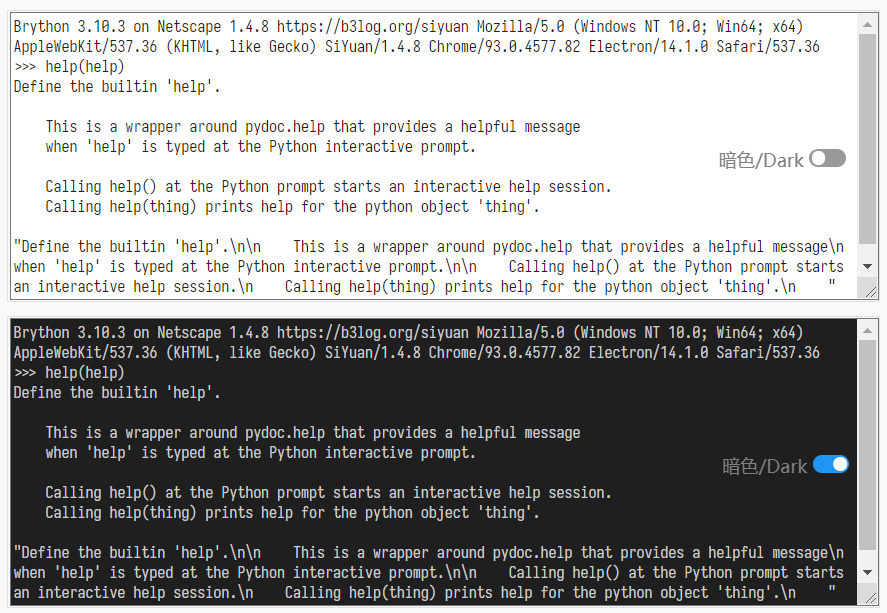
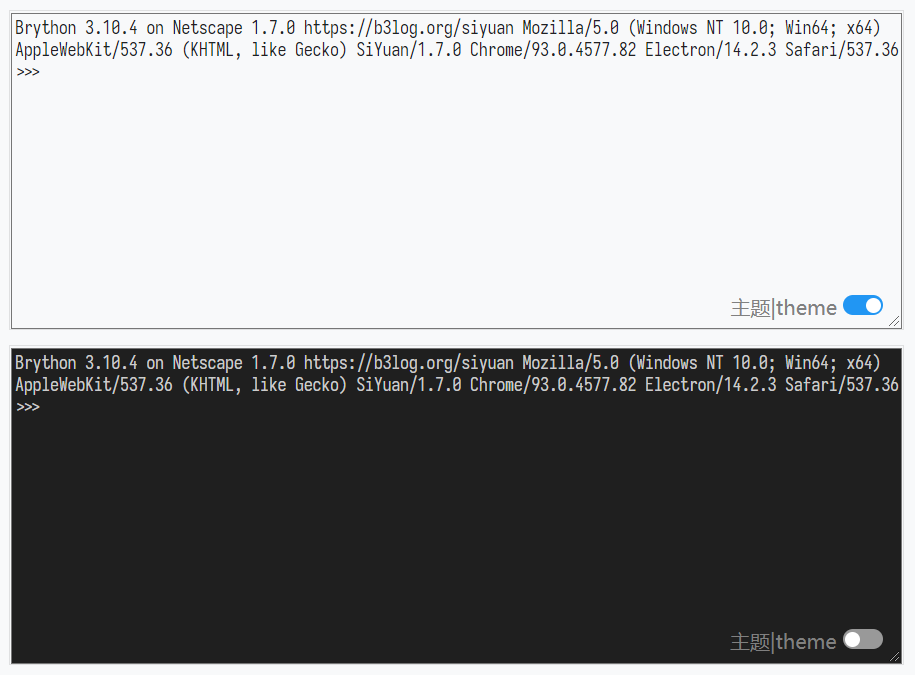
feat: 配色跟随主题切换 | The color matching follows the theme switch.

Changed region(s): [[0.0, 0.0, 1.0, 0.9918], [0.0609, 0.186, 0.6697, 0.248]]

diff --git a/index.html b/index.html
@@ -14,10 +14,10 @@
 <body onload="brython()">
     <div id="tool-box">
         <div>
-            <label style="color: gray;">暗色/Dark</label>
+            <label style="color: gray;">主题|theme</label>
 
-            <label id="switch-dark" class="switch">
-                <input id="switch-dark-input" type="checkbox" checked>
+            <label id="switch-theme" class="switch">
+                <input id="switch-theme-input" type="checkbox" checked>
                 <div class="slider round"></div>
             </label>
         </div>
@@ -26,7 +26,17 @@
     <!-- <script type="text/javascript" src="/theme/metro.min.js"></script> -->
     <!-- <script src="https://cdn.metroui.org.ua/v4/js/metro.min.js"></script> -->
 </body>
+<script type="text/javascript">
+  /* 引入全局主题配置文件 */
+  let themeDefaultStyle = window.parent.document.getElementById('themeDefaultStyle');
+  let themeStyle = window.parent.document.getElementById('themeStyle');
+  let head = document.getElementsByTagName('HEAD').item(0);
 
+  head.appendChild(themeDefaultStyle.cloneNode(true));
+  if (themeStyle != null) {
+    head.appendChild(themeStyle.cloneNode(true));
+  }
+</script>
 <script type="text/python" src="./assets/main.py"></script>
 
 </html>

diff --git a/assets/main.css b/assets/main.css
@@ -3,8 +3,8 @@ body {
 }
 
 .codearea {
-    background-color: #1F1F1F;
-    color: #CCC;
+    color: var(--b3-theme-on-background);
+    background-color: var(--b3-theme-background);
     font-family: 'Sarasa Mono SC', 'Oxygen Mono', Consolas, 'Liberation Mono', 'DejaVu Sans Mono', monospace;
     font-size: 14px;
     /* overflow: auto; */

diff --git a/assets/main.py b/assets/main.py
@@ -1,5 +1,5 @@
 from interpreter import Interpreter
-from browser import bind, document, alert
+from browser import bind, document
 
 # 在 id 为 "code" 文本区中启动一个交互式控制台
 # Start an interactive interpreter in textarea with id "code"
@@ -8,10 +8,11 @@ Interpreter("code")
 COLOR_DARK = "#CCC"
 BACKGROUND_COLOR_DARK = "#1F1F1F"
 
-COLOR_LIGHT = "#1F1F1F"
-BACKGROUND_COLOR_LIGHT = "#FFF"
+COLOR_DEFAULT = "var(--b3-theme-on-background)"
+BACKGROUND_COLOR_DEFAULT = "var(--b3-theme-background)"
 
-@bind("#switch-dark", "click")
+
+@bind("#switch-theme", "click")
 def colorChange(event):
     def setColor(color, backgroundColor, elements):
         """ 设置控制台的颜色(Set the color of the console) """
@@ -19,21 +20,23 @@ def colorChange(event):
             element.style.color = color
             element.style.backgroundColor = backgroundColor
 
-    if not document["switch-dark-input"].checked: # 变更为浅色主题(change to light theme)
+    if document["switch-theme-input"].checked:  # 跟随主题(Follow the theme)
         setColor(
-            color=COLOR_LIGHT,
-            backgroundColor=BACKGROUND_COLOR_LIGHT,
+            color=COLOR_DEFAULT,
+            backgroundColor=BACKGROUND_COLOR_DEFAULT,
             elements=document.select('.codearea'),
         )
-    else: # 变更为深色主题(change to dark theme)
+    else:  # 变更为深色主题(change to dark theme)
         setColor(
             color=COLOR_DARK,
             backgroundColor=BACKGROUND_COLOR_DARK,
             elements=document.select('.codearea'),
         )
 
+
 class ElementMove:
     """ 鼠标移动元素(Mouse moves element) """
+
     def __init__(self, moving):
         """Make "moving" element movable with the mouse"""
         self.moving = moving
@@ -65,5 +68,6 @@ class ElementMove:
         """When user releases the mouse button, stop moving the element"""
         self.is_moving = False
         document.unbind("mousemove")
+
 
 ElementMove(document["tool-box"])

diff --git a/README.md b/README.md
@@ -1,4 +1,4 @@
-# Brython 控制台挂件 / widget-brython-console
+# Brython 控制台挂件 | widget-brython-console
 
 <center>
 
@@ -11,49 +11,49 @@
 
 </center>
 
-一个简单可离线运行的的 Brython 控制台挂件<br>
+一个简单可离线运行的的 Brython 控制台挂件  
 A sample, offline-running widget of Brython Console.
 
-现已上架[思源笔记社区集市](https://github.com/siyuan-note/bazaar), 如果您需要订阅[思源笔记](https://github.com/siyuan-note/siyuan)增值服务，欢迎使用我的推荐码: **h0sc9rc**<br>
+现已上架[思源笔记社区集市](https://github.com/siyuan-note/bazaar), 如果您需要订阅[思源笔记](https://github.com/siyuan-note/siyuan)增值服务，欢迎使用我的推荐码: **h0sc9rc**  
 It is now on the shelves of the [Siyuan Notes Community Bazaar](https://github.com/siyuan-note/bazaar). If you need to subscribe to the value-added services of [siyuan note](https://github.com/siyuan-note/siyuan/blob/master/README_en_US.md), please use my referral code: **h0sc9rc**
 
 ---
 
-# 预览 / PREVIEW
+# 预览 | PREVIEW
 
 ![preview.png](./preview.png)
 
-# 功能 / FUNCTION
+# 功能 | FUNCTION
 
-- 离线使用 Brython 库交互式运行 Python 脚本<br>
+- 离线使用 Brython 库交互式运行 Python 脚本  
   Run Python scripts offline using the Brython library interactively.
-  - Brython 库所实现的模块详见 [Brython documentation](https://brython.info/static_doc/en/intro.html)<br>
+  - Brython 库所实现的模块详见 [Brython documentation](https://brython.info/static_doc/en/intro.html)  
     Details of the modules implemented by the library can be found at [Brython documentation](https://brython.info/static_doc/en/intro.html)
-- 可拖动的工具栏<br>
+- 可拖动的工具栏  
   A removable toolbar.
-  - 一个`亮色`与`暗色`主题切换开关<br>
-    A switch for switching between `Light` and `Dark` themes.
+  - 一个跟随全局主题与`暗色`主题切换开关  
+    A switch for switching between follow the global theme and `Dark` theme.
 
-# 开始 / START
+# 开始 | START
 
-## 自动 / AUTO
+## 自动 | AUTO
 
-该挂件已在[思源笔记社区集市](https://github.com/siyuan-note/bazaar)上架, 可直接在集市中安装<br>
+该挂件已在[思源笔记社区集市](https://github.com/siyuan-note/bazaar)上架, 可直接在集市中安装  
 The widget has been put on the shelves at [SiYuan community bazaar](https://github.com/siyuan-note/bazaar) and can be installed directly in the Bazaar.
 
-## 手动 / MANUAL
+## 手动 | MANUAL
 
-1. 在 [Releases](https://github.com/Zuoqiu-Yingyi/widget-brython-console/releases) 中下载发行包, 解压后放到[思源笔记](https://github.com/siyuan-note/siyuan) `<工作空间>/data/widgets/` 目录下<br>
+1. 在 [Releases](https://github.com/Zuoqiu-Yingyi/widget-brython-console/releases) 中下载发行包, 解压后放到[思源笔记](https://github.com/siyuan-note/siyuan) `<工作空间>/data/widgets/` 目录下  
    Download the release package in [Releases](https://github.com/Zuoqiu-Yingyi/widget-brython-console/releases), unzip it and place it in the `<workspace>/data/widgets/` directory of [SiYuan Note](https://github.com/siyuan-note/siyuan)
-2. 在笔记中创建一个 `IFrame` 块, 地址填 `/widgets/widget-brython-console` 即可<br>
+2. 在笔记中创建一个 `IFrame` 块, 地址填 `/widgets/widget-brython-console` 即可  
    Create an `IFrame` block in your notes with the address filled in `/widgets/widget-brython-console`
 
-# 依赖 / DEPENDENCE
+# 依赖 | DEPENDENCE
 
-## 源码 / SOURCE
+## 源码 | SOURCE
 
 - [GitHub - brython-dev/brython: Brython (Browser Python) is an implementation of Python 3 running in the browser](https://github.com/brython-dev/brython) *[BSD\-3\-Clause License](https://github.com/brython-dev/brython/blob/master/LICENCE.txt)*
 
-# 更改日志 / CHANGE LOG
+# 更改日志 | CHANGE LOG
 
 [CHANGE LOG](./CHANGELOG.md)

diff --git a/CHANGELOG.md b/CHANGELOG.md
@@ -1,5 +1,7 @@
 # 更改日志 | CHANGE LOG
 
+- 配色跟随主题切换 | The color matching follows the theme switch.
+
 ## v0.1.4/2022-01-10
 
 - 更新 Brython 版本至 [3.10.4](https://github.com/brython-dev/brython/releases/tag/3.10.4) / Update Brython version to [3.10.4](https://github.com/brython-dev/brython/releases/tag/3.10.4).
